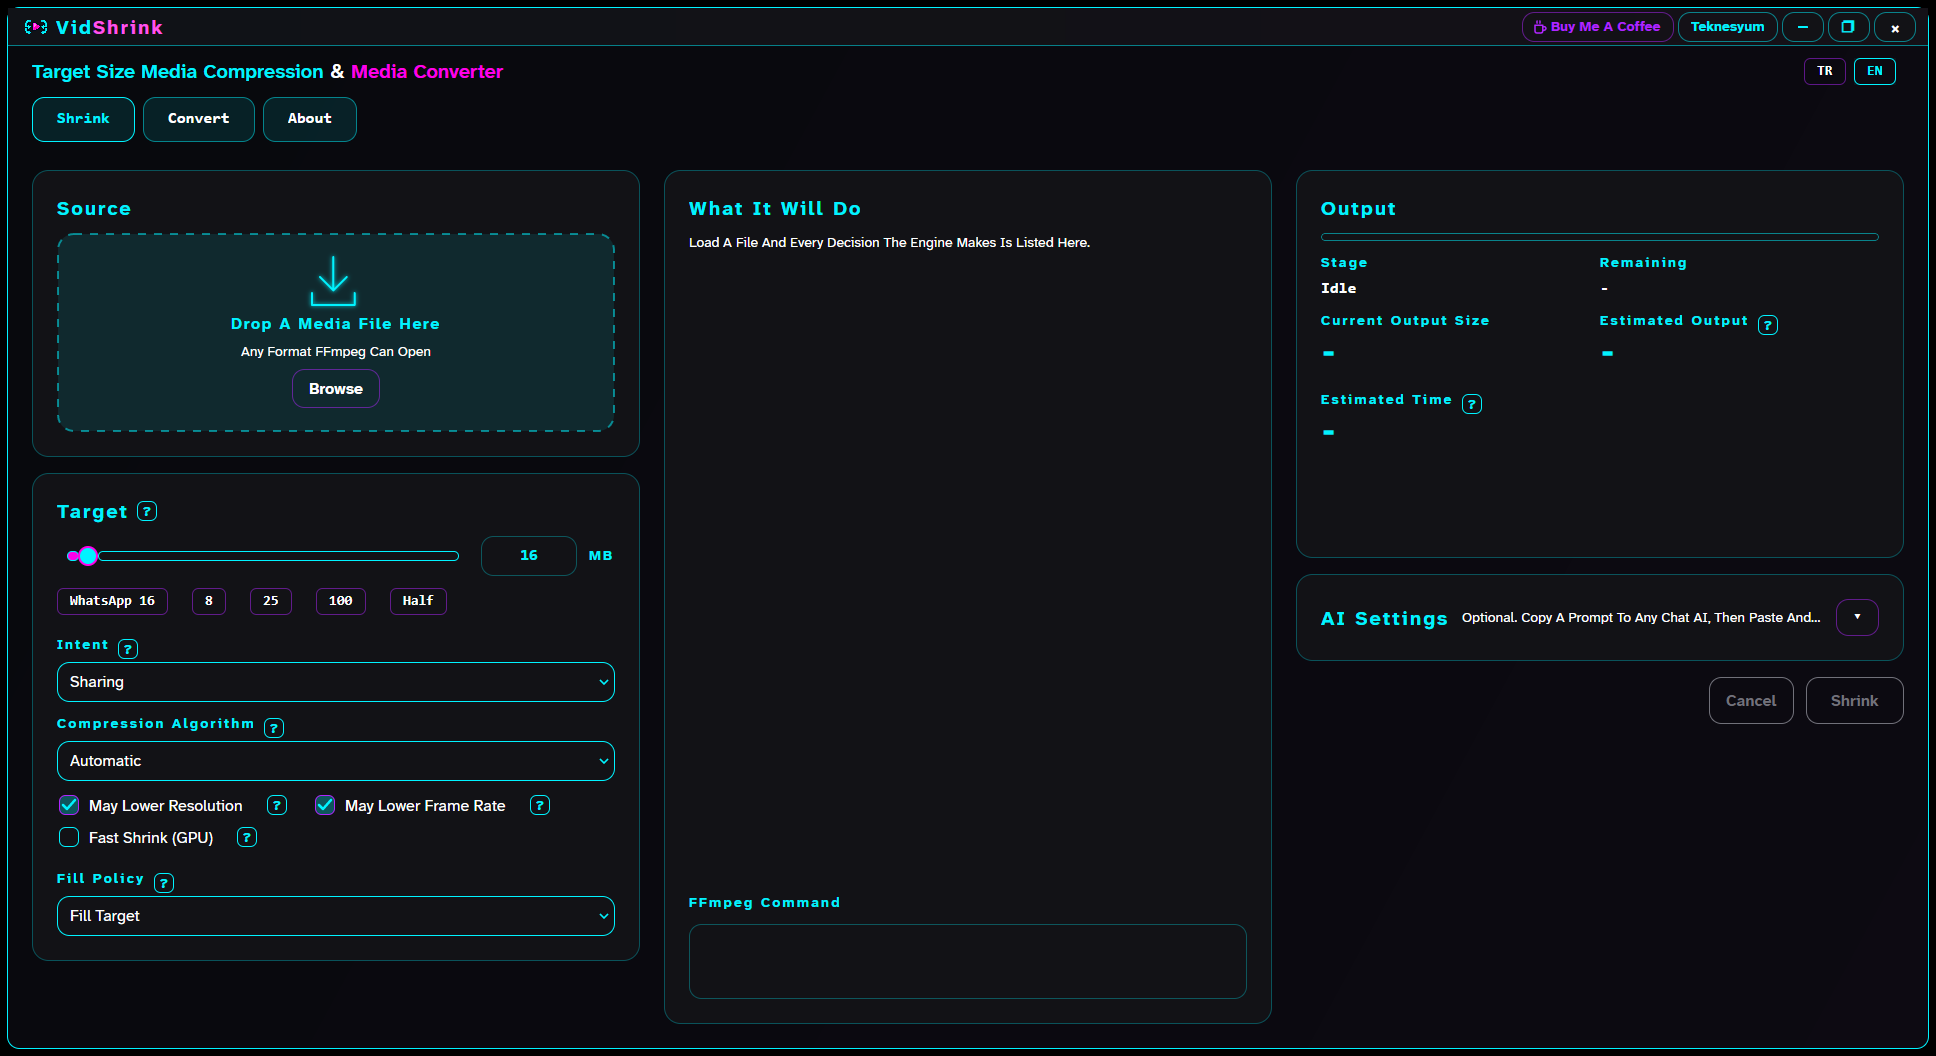
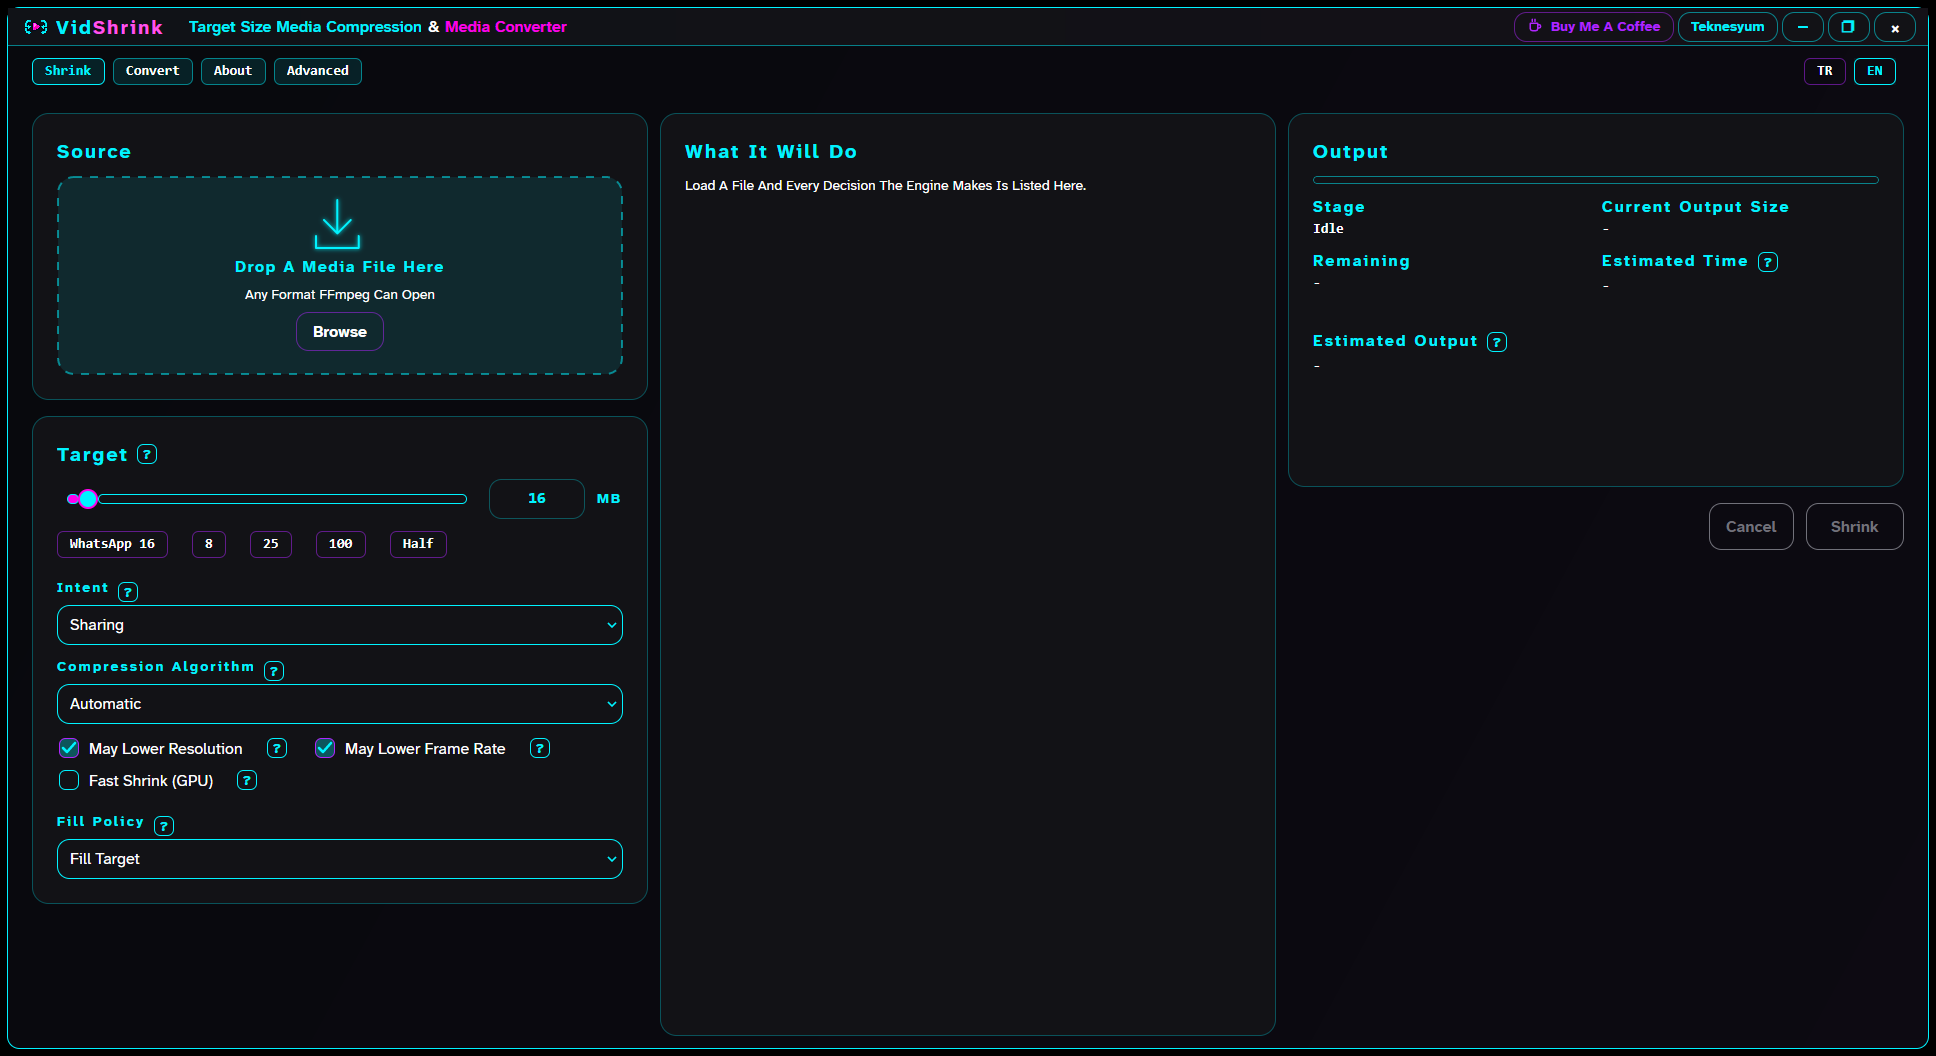
Centre the coffee cup on its own design box and widen its gap

diff --git a/.claude/relay/LOG.md b/.claude/relay/LOG.md
@@ -30,3 +30,4 @@
 2026-08-23 T10 builder: submitted, hizli mod artik proba bagli ve kalibrasyon donanimda oturuyor. K1-K6 kapandi. Bu makinede hizli yol av1_amf seciyor, olcumler AMF'de. KENDI OLCUMUM (400 sn 1080p60 kupur): sonrasi 100->99,01 (1 deneme) 50->49,97 (1) 25->24,43 (2) 8->7,80 (2), dordunde de kalibrasyon plana uyguladi (bias 1,00, tek tur). Oncesi 100->98,63 (2 deneme, calibrated False, bias 1,06) 50->49,36 (2); 25 ve 8'in oncesi OLCULMEDI, T0 durdurdu. BELGEDEN: CHANGELOG Known gaps av1_nvenc'in ilk iki gecis denemesinde tastigini soyluyor. Kalan tur ilk deneme tasmasi - FfmpegArguments.HardwareRateControl vbr_peak + maxrate 1,5x ve PlanCalculator.HardwareBitrateBias yalniz yukari duzeltiyor; ikisi de owns disi, ayri tur gerekiyor. owns disina zorunlu 3 satir (FillBandTests, Bench/Program.cs) - imzadan varsayilan kalkinca derlenmiyordu, _sorun.log'a yazildi. build 0 uyari, test 177/181 (4 atlanan). DENETIM BEKLIYOR.
 2026-08-23 T24 ui-builder: submitted. Bekleme paneli hareket ve renk. K1 tarama suresi artik SweepPeriod = MotionSlow x MotionStaggerCount x 2; tam tur ONCE 1440 ms -> SONRA 4320 ms (tam uc kat yavas), baslaticida sabit sure yok. K2 gezen parca yuvarlak bolgeye kirpilip iki piksellik dilimlerle dolduruluyor, ortada NeonBlueColor uclarda NeonPurpleColor; simetrik oldugu icin yon degisiminde renk sicramasi yok, FillRgn yerine SelectClipRgn + FillRect. K3 VIDSHRINK basligi NeonBlueColor, durum satiri TextBodyColor; metne hale verilmedi, kullanilmayan TextDisabledColor tEXt listesinden cikti. Kontrast govde 20,4:1 baslik 14,8:1. YENI BELIRTECLER tEXt listesine girdi: NeonPurpleColor, MotionSlow, MotionStaggerCount - gomulu listede dogrulandi, test gevsetilmedi. TUZAK: MotionSlow <sys:TimeSpan>, MotionStaggerCount <x:Int32> etiketiyle yazilmis; hem urettecin hem testin tema okuma deseni bunlari tanimiyordu ve derleme MSB3073 ile dustu, desene iki etiket eklendi. OLCUM: tek dosya 9.711.104 -> 9.711.104 bayt (degismedi), splash.png 2.714 -> 2.761 (+47 B), PE alt sistemi 2, esik hala 400 ms ve SplashWindow.Create() tek yerde. build 0 uyari 0 hata, test 214 basarili 0 basarisiz 6 atlanan. Ekran goruntusu scratchpad/shot/out/panel-0..3.png (owns disina yazmamak icin depoya alinmadi). ACIK: gercek baslaticiyla uctan uca acilis kosturulamadi, yapi klasorunde app/ yok. DENETIM BEKLIYOR.
 2026-08-23 T25 ui-builder: submitted, bes kriterin besi kapandi. K1 buyuk harf kurali tek gecitle uygulandi (LanguageCatalog.Title): tr-TR kulturu, baglac istisnasi, icinde buyuk harf gecen kelimeye dokunmama, harfle baslamayan kelimeye dokunmama, kucuk yazilmis kisaltmayi kendi yazimina dondurme. KANIT: 'islem tamamlandi' -> 'Islem Tamamlandi' degil, gercek karakterlerle i -> buyuk noktali I; kulture duyarsiz ToUpperInvariant ayni kelimede noktasiz I veriyor. Gecit acilista tum pencere agacina, dil degisiminde ayni agaca, ayrica T()/Localize()/Validation()/RetryQuestion()/LocalizeStage()/plan satirlarina uygulaniyor; sozluk anahtarlari da statik kurulusta ayni gecitten geciyor. Dokunulan: sozlukte 142 cift, XAML'de 108 Text + 74 Content. K2 InfoButton ToolTip.Placement Pointer -> BottomEdgeAlignedLeft; OLCULDU: dugme sol=249 balon sol=249 (birebir), ekran kenarinda dugme sag=1737 balon sag=1737 ekran 1920, tasma yok. K3 31 metin (62 dizge) maddeye bolundu, bilgi kisaltilmadi; tek fikirli kisa ipuclari oldugu gibi birakildi. SAPMA: AI ayarlari yanindaki tek satirlik ozet listeye cevrilmisti, geri alindi - kaynagi Themes/Theme.axaml (owns disi) oldugu icin XAML tarafi ayni bicime gelemiyordu ve ceviri aramasi kiriliyordu. K4 baslikta Vid NeonBlue / Shrink PinkText (#FFFF54EB, Controls.axaml'de tanimlandi); WalkText artik Inlines tasiyan TextBlock'a dokunmuyor. K5 BtnTr/BtnEn IsEnabled yerine 'selected' sinifi, yeni LanguageButton temasi ChipButton uzerine - olcu degismedi, yalniz renk; secili olmayan TextBody beyaz (yaklasik 20:1), TextDisabled bilerek kullanilmadi (3,8:1, taban alti). build 0 uyari 0 hata, test 212 basarili 0 basarisiz 6 atlanan. TUZAK: ilk yakalama denemesinde SetForegroundWindow basarisiz oldu ve tam ekran CopyFromScreen kullanicinin tarayicisini kaydetti; iki dosya hemen silindi, ikinci turda yalnizca balonun kendi pencere tutamagi PrintWindow ile yakalandi. Sozlesme dosyasi worktree'de yoktu, ana depodan kopyalandi (_sorun.log). 684. satirdaki denetim listesi celiskisi Teknesyum Base'de, buradan duzeltilmedi. DENETIM BEKLIYOR.
+2026-08-23 T25 ui-builder tur 2: submitted. Dal de04054 uzerinden acilmisti, origin/main (cabb732) birlestirildi - yedi cakisma cozuldu, kural 'yapi T23'ten metin ve renk T25'ten'. MainWindow.axaml ~131 alt baslik satiri: T23'un yapisi alindi, tagline baslik cubugunda kaldi, LanguageButton temasi ve automation adlari LangSwitch icindeki dugmelere tasindi. MainWindow.axaml ~432 cikti paneli: T23 K8'in OutFactLabel/OutFactValue siralamasi alindi, benim eski Label blogum atildi; birlestirme 'Tahmini cikti' ipucusunu duz paragrafa dondurmustu, madde bicimi yeniden uygulandi. Digerleri: T25.md benim surumum, LOG.md ve iki hafiza dosyasi birlesim, kapsam.json origin/main. KORUNANLAR: Gelismis sekmesi, FFmpeg paneli, fare ustundeyken kaydirma, OutFact temalari, LangSwitch, T24'un Theme.axaml belirtecleri. DOGRULAMA: K1 gecidi T23'un yeni metinlerine de uyguluyor - Gelismis sekmesi UIA ile secilip tarandi, 19 metin dugumunun hicbirinde kucuk harfle baslayan kelime yok. Sozlukteki cift 142 -> 171 (T23/T24'ten 29 yeni cift), hepsi ayni gecitten. YENI: K6 destek dugmesindeki kahve simgesi. OLCULEN SEBEP: Stretch=Uniform cizimin murekkep sinirina oturuyordu; Data murekkebi dikeyde 3..20 ama fincan govdesi 9..20, ustteki alti birim buhar ve bosluk, bu yuzden govde merkezi kutu merkezinin 3 birim altinda kaliyordu - onceki goruntude metin murekkep merkezi y=25, fincan govdesi merkezi y=27, 1,75 px asagi. COZUM: Data'ya cizim uretmeyen iki MoveTo (M 0 0, M 24 24) konup simgenin kendi 24x24 tasarim kutusu sabitlendi, cizim kutu icinde 2,5 birim yukari tasindi, kutu 12 -> 16 (fincan onceki boyutunda kalsin diye). Margin kullanilmadi. Bosluk SpaceXs (4) -> SpaceSm (8). BtnGitHub'a dokunulmadi. build 0 uyari 0 hata, test 214 basarili 0 basarisiz 6 atlanan. DENETIM BEKLIYOR.

diff --git a/.claude/relay/contracts/T25.md b/.claude/relay/contracts/T25.md
@@ -5,7 +5,7 @@ role: ui-builder
 model: opus
 depends: [T23]
 status: submitted
-round: 1
+round: 2
 audit: —
 auditor_id: —
 diff: —
@@ -250,3 +250,70 @@ Goruntuler: `docs/gorseller/T25-dil-tr-secili.png`, `docs/gorseller/T25-dil-en-s
   dosya hemen silindi. Ikinci denemede balonun kendi pencere tutamagi bulunup yalnizca o
   pencere `PrintWindow` ile yakalandi; ekranin geri kalani hic kaydedilmedi.
 - 684. satirdaki denetim listesi celiskisi Teknesyum Base'de, bu depodan duzeltilmedi.
+
+
+## main ile birlestirme
+
+Dal `de04054` uzerinden acilmisti; T23 ve T24 ondan sonra birlesmisti. Sozlesme dosyasini
+worktree'de bulamamamin sebebi de buydu. `git merge origin/main` (cabb732) yapildi.
+
+**Yedi cakisma cozuldu.** Kural: yapi T23'ten, metin ve renk bu turdan.
+
+1. `src/VidShrink.App/MainWindow.axaml` ~131 - alt baslik satiri. T23'un yapisi alindi:
+   `TaglineLead`/`TaglineSeparator`/`TaglineConverter` eski satira geri donmedi, baslik
+   cubugunda kaldi; o gride yalniz `LangSwitch` var. Bu turun `LanguageButton` temasi ve
+   `auto:AutomationProperties.Name` degerleri `LangSwitch` icindeki iki dugmeye tasindi.
+2. `src/VidShrink.App/MainWindow.axaml` ~432 - cikti paneli. T23 K8'in siralamasi ve
+   `OutFactLabel`/`OutFactValue` temalari oldugu gibi alindi; benim `Label`/`HeroValue`
+   tasiyan eski blogum atildi. Birlestirmeden sonra `Tahmini cikti` ipucusu duz paragraf
+   olarak geri gelmisti, madde bicimi yeniden uygulandi.
+3. `.claude/relay/contracts/T25.md` - bu turun raporu korundu.
+4. `.claude/relay/LOG.md` - iki taraf da korundu, T24 satiri once, T25 satiri sonra.
+5. `.claude/relay/kapsam.json` - `origin/main` surumu alindi (kanca uretiyor).
+6. `.claude/agent-memory/.../MEMORY.md` - iki taraf da korundu, alti satir.
+7. `.claude/agent-memory/.../vidshrink-arayuz-dogrulama.md` - iki taraf da korundu.
+
+**T23/T24'ten korunanlar:** `Gelişmiş` sekmesi, FFmpeg paneli, fare ustundeyken kaydirma
+davranisi, `OutFactLabel`/`OutFactValue`, baslik cubugundaki alt baslik, `LangSwitch`
+yerlesimi, T24'un `Themes/Theme.axaml` belirtecleri. Bunlarin hicbirine dokunulmadi;
+yalniz iclerindeki metne buyuk harf kurali ve madde bicimi uygulandi.
+
+**Birlestirmeden sonra bes kriterin dogrulanmasi.** K1'in gecidi T23'un yeni metinlerine de
+uyguluyor: `Gelişmiş` sekmesi UIA ile secilip taranınca 19 metin dugumunun hicbirinde
+kucuk harfle baslayan kelime yok (baglac istisnasi disinda). Ekranda `FFmpeg Komutu`,
+`AI Ayarları` ve tek satirlik AI ozeti dogru buyuk harfle ve Turkce olarak duruyor.
+Goruntu: `docs/gorseller/T25-gelismis-sekmesi.png`.
+
+Sozlukteki cift sayisi 142'den 171'e cikti (T23/T24'un ekledigi 29 cift); hepsi ayni
+gecitten geciyor. Katalogda maddesiz kalan uc uzun dizge var: hizalanmis tek karakterli
+tablo blogu (zaten liste) ve iki tek fikirli guncelleme bildirimi.
+
+## K6 - Destek dugmesindeki kahve simgesi (bitti)
+
+**Olculen sebep.** `Path` `Stretch="Uniform"` ile ciziminin **murekkep** sinirlarina
+oturuyordu. `Data` murekkebi dikeyde 3..20 arasindaydi (17 birim), ama gozun izledigi
+fincan govdesi yalniz 9..20 arasi (11 birim); ustteki alti birim buhar cizgisi ve bosluk.
+Uniform bu murekkep kutusunu ortaladigi icin fincan govdesinin merkezi kutunun merkezinden
+3 birim asagida kaliyordu. Onceki goruntuden olculdu: metnin murekkep merkezi y=25,
+simgenin murekkep merkezi de y=25 - yani kutu ortaliydi - ama fincan govdesinin merkezi
+y=27, **1,75 piksel asagida**. `Margin` ile itilmedi.
+
+**Cozum.** `Data`nin basina ve sonuna cizim uretmeyen iki `MoveTo` konuldu (`M 0 0` ve
+`M 24 24`). Bunlar simgenin kendi 24x24 tasarim kutusunu sabitliyor, boylece Uniform
+murekkebi degil tasarim kutusunu olcekliyor. Cizim kutunun icinde 2,5 birim yukari
+tasindi, yani kutunun ortaladigi sey artik fincan govdesi. Kutu 12'den 16'ya cikarildi ki
+tasarim kutusu olceklenirken fincan onceki boyutunda kalsin (11 birim x 16/24 = 7,3 px,
+oncesi 7,8 px).
+
+**Bosluk.** Simge ile metin arasi `SpaceXs` (4) -> `SpaceSm` (8). Olcekte bir ust belirtec,
+yeni sayi uretilmedi.
+
+`BtnGitHub`'a dokunulmadi. Goruntu: `docs/gorseller/T25-destek-dugmesi.png`.
+
+## Birlestirme sonrasi dogrulama
+
+- `dotnet build VidShrink.sln -c Release`: 0 uyari, 0 hata
+- `dotnet test VidShrink.sln -c Release`: 214 basarili, 0 basarisiz, 6 atlanan
+- Yeni goruntuler: `docs/gorseller/T25-gelismis-sekmesi.png`, `T25-destek-dugmesi.png`;
+  `T25-ana-tr.png`, `T25-ana-en.png`, `T25-baslik-adi.png`, `T25-dil-tr-secili.png`,
+  `T25-dil-en-secili.png` birlestirilmis yerlesimle yeniden alindi.
